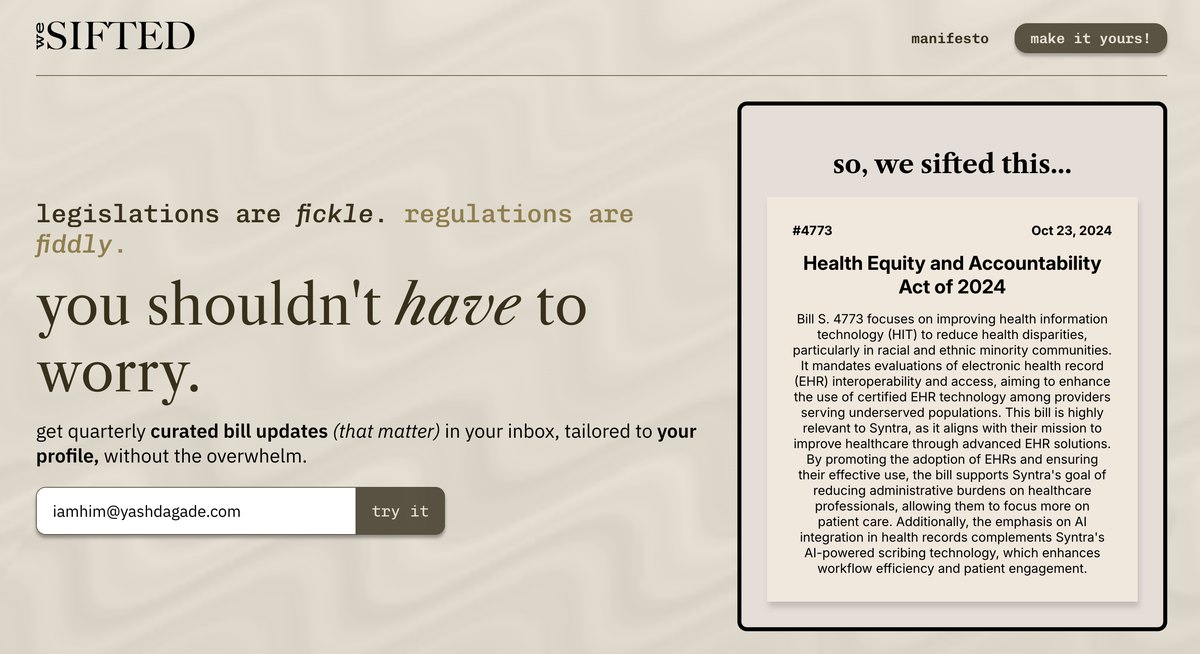
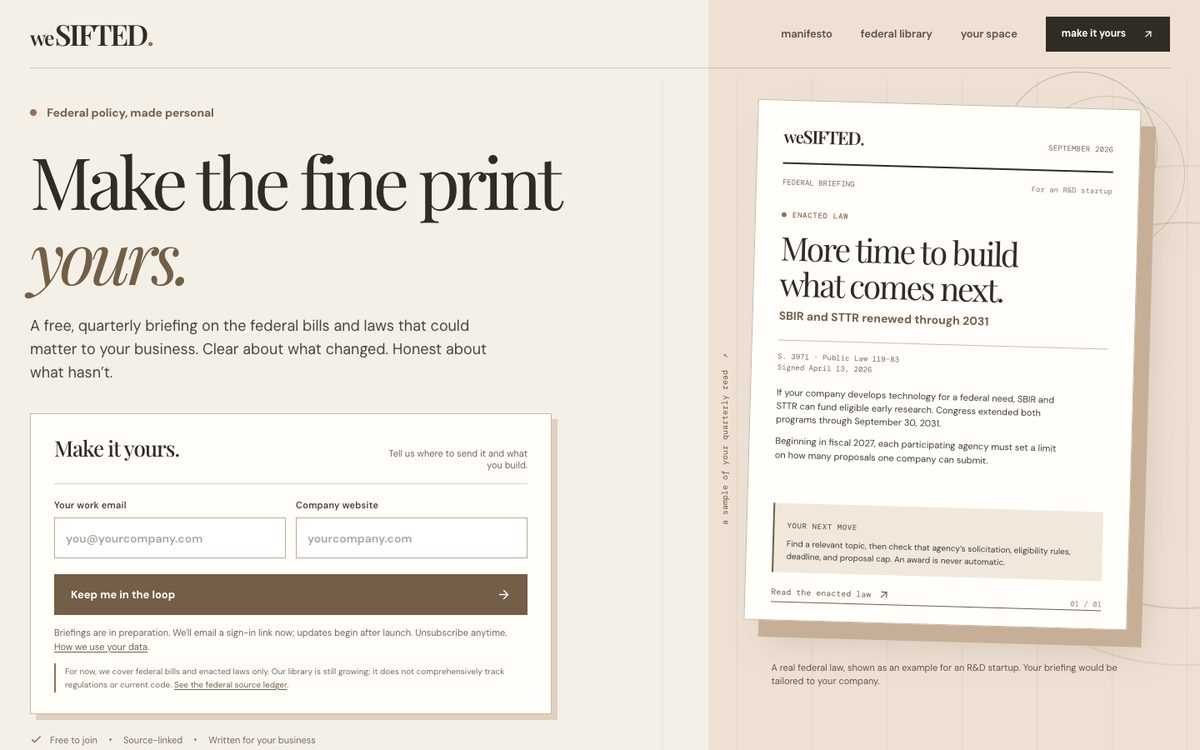
WeSifted is live again: new image, description and link; fix Build intro crash on narrow screens

diff --git a/site/js/scenes/build.js b/site/js/scenes/build.js
@@ -177,7 +177,7 @@
   [[IMG.connectu, 1200 / 631], [IMG.eyeda, 1200 / 553], [IMG.hermes, 1.6], [IMG.idw, 1200 / 699], [IMG.lpjepa, 1172 / 1200],
     [IMG.radial, 291 / 300], [IMG.cp, 638 / 468], [IMG.cfd, 1334 / 649], [IMG.render, 1110 / 828], [IMG.poster, 862 / 542],
     [IMG.flight, 1400 / 786], [IMG.system, 1400 / 873], [IMG.sky, 1400 / 752], [IMG.ground, 1136 / 273], [IMG.arbor, 634 / 750],
-    [IMG.optionGlass, 690 / 580], [IMG.simpl, 1200 / 675], [IMG.resq, 1200 / 725], [IMG.drift, 1.6], [IMG.wesifted, 1200 / 654],
+    [IMG.optionGlass, 690 / 580], [IMG.simpl, 1200 / 675], [IMG.resq, 1200 / 725], [IMG.drift, 1.6], [IMG.wesifted, 1200 / 750],
     [IMG.robot, 1120 / 1400], [IMG.robotSq, 1], [IMG.robotCad, 1200 / 1500], [IMG.blinket, 1200 / 721]]
     .forEach(([s, a]) => { AR[s] = a; });
   // Source crops (px of the file): Arbor's public page is half sign-in form; only its left panel ("Follow the
@@ -254,7 +254,7 @@
     { id: 'resq', name: 'ResQ', year: '2025', y0: 2025, field: 'Safety', one: 'Watches traffic-camera streams and flags crashes with a vision LLM in real time', idx: 'Flags crashes in live traffic-camera streams with a vision LLM', href: 'https://res-q-eta.vercel.app/', img: IMG.resq, meta: 'Vision LLM · real time', film: true },
     { id: 'goedel', name: 'Goedel-Prover-V2, enhanced', year: '2025', y0: 2025, field: 'Experiments', one: 'Prompt adapter for Goedel-Prover-V2-8B: 84.6% → 85.2% on miniF2F (self-reported)', idx: 'Prompt adapter, 8B: 84.6% → 85.2% miniF2F (self-reported)', href: null, gen: 'title', meta: 'Lean · LLM' },
     { id: 'lotus', name: 'LOTUS', year: '2025', y0: 2025, field: 'Experiments', one: 'Generating Cas9 protein variants by flow matching in ESM-2 embedding space', idx: 'Cas9 variants via flow matching in ESM-2 space', href: 'https://github.com/YashDagade/Lotus', gen: 'title', meta: 'Flow matching · GitHub' },
-    { id: 'wesifted', name: 'WeSifted', year: '2025', y0: 2025, field: 'Products', one: 'Curated, profile-tailored legislation updates for small and mid-size businesses', idx: 'Legislation updates tailored to small and mid-size businesses', href: 'https://wesifted.com', img: IMG.wesifted, meta: 'Archived', arch: true },
+    { id: 'wesifted', name: 'WeSifted', year: '2025', y0: 2025, field: 'Products', one: 'Free quarterly briefings on the federal bills and laws that matter to your business, plus a source-cited AI bill chat', idx: 'Federal bills and laws, briefed for your business · AI bill chat', href: 'https://www.wesifted.com/', img: IMG.wesifted, meta: 'Live · wesifted.com' },
     { id: 'echo', name: 'Echo', year: '2025', y0: 2025, field: 'Products', one: 'AI documentation and note-taking for therapists', idx: 'AI documentation and note-taking for therapists', href: null, gen: 'title', meta: 'Archived', arch: true },
     { id: 'idontwannadie', name: 'idontwannadie.lol', year: '2024', y0: 2024, field: 'Safety', one: 'Safer-route maps built on 3.1M+ Minnesota crash records; PennApps XXV winner', idx: 'Safer routes from 3.1M+ MN crash records · PennApps XXV', href: 'https://idontwannadie.lol/', img: IMG.idw, meta: 'PennApps XXV', film: true },
     { id: 'skywindfarm', name: 'SkyWindFarm', year: '2022–24', y0: 2022, y1: 2024, field: 'Energy', one: 'Airborne wind energy: helium-lifted VAWT clusters that harvest high-altitude wind', idx: 'Helium-lifted turbine clusters harvesting high-altitude wind', href: 'https://youtu.be/Z6k2j59-ubo', video: 'https://youtu.be/Z6k2j59-ubo', img: IMG.flight, thumb: sq('aloft'), meta: 'Flight video · ISEF 2023 + 2024 · patent application' },
@@ -1240,6 +1240,7 @@ body:has(.scene--build.is-active.is-waiting) #hint { visibility: hidden !importa
       const artFn = name => (window.Site && Site.art && typeof Site.art[name] === 'function' ? Site.art[name] : null);
       function unitArt(x, y, s, t, i, o) {
         o = o || {};
+        if (!(s > 0.01)) return { x, y };
         const f = artFn('swfUnit');
         if (f) {
           ctx.save();
@@ -1276,6 +1277,7 @@ body:has(.scene--build.is-active.is-waiting) #hint { visibility: hidden !importa
         return { at };
       }
       function drawUnit(x, y, s, t, i) {
+        if (!(s > 0.01)) return;
         ctx.strokeStyle = C.ink; ctx.lineWidth = 1;
         ctx.fillStyle = C.bg;
         ctx.beginPath(); ctx.ellipse(x, y, 34 * s, 15 * s, 0, Math.PI, 2 * Math.PI); ctx.closePath(); ctx.fill(); ctx.stroke();
@@ -1862,6 +1864,7 @@ body:has(.scene--build.is-active.is-waiting) #hint { visibility: hidden !importa
       // (x, y) = deck centre, s = swfUnit scale. o: { alpha, energy, phase, bridle }
       function unitPart(which, x, y, s, o) {
         o = o || {};
+        if (!(s > 0.01)) return;
         const f = artFn('swfUnit');
         ctx.save();
         if (o.alpha != null) ctx.globalAlpha *= o.alpha;
